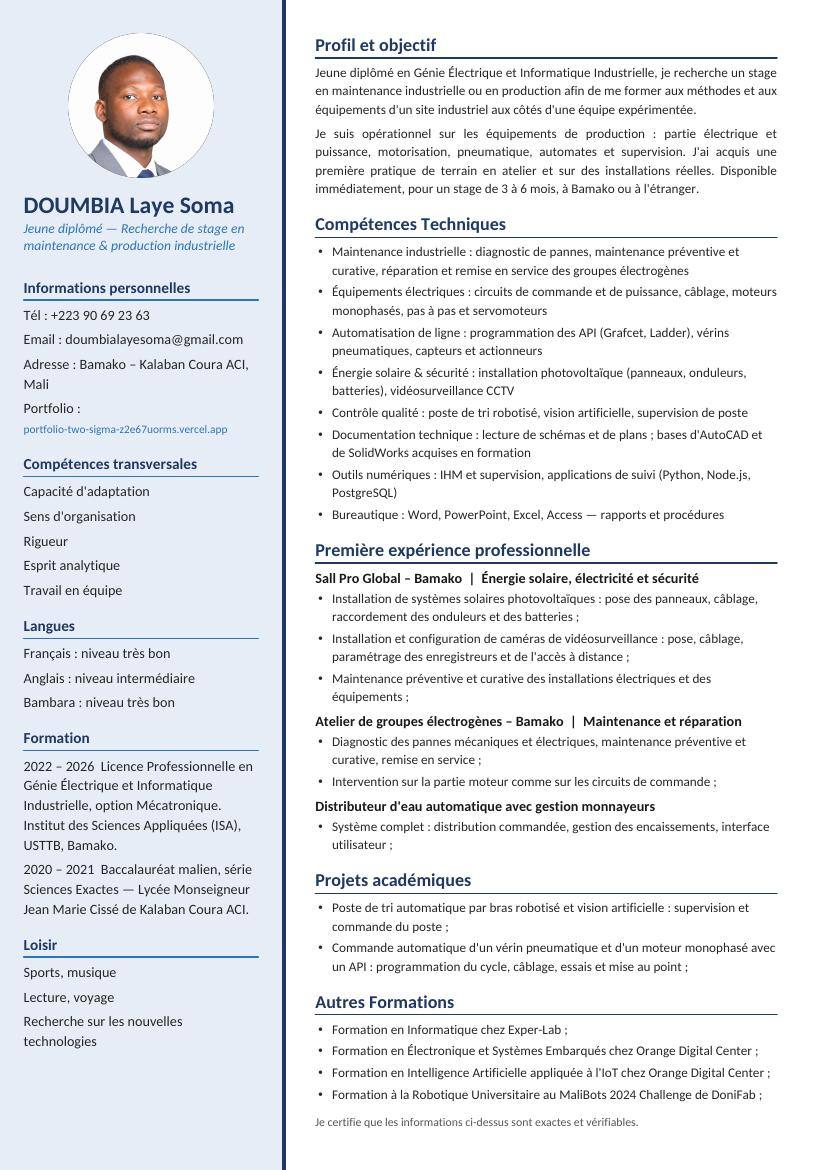
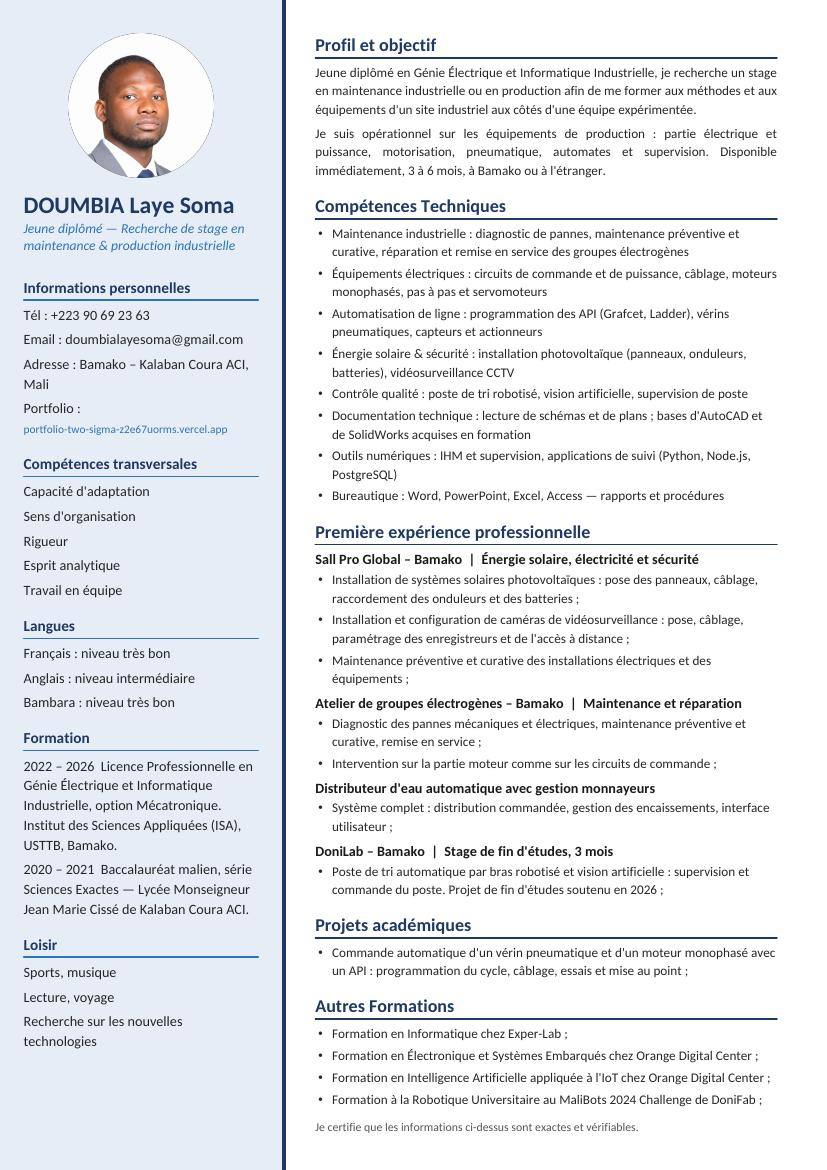
Ajoute le stage de fin d'études chez DoniLab
Le bras robotisé de tri par vision artificielle était le projet de fin
d'études, réalisé lors d'un stage de 3 mois chez DoniLab avant la
soutenance de 2026. Il devient une étape du parcours et une expérience
professionnelle, au lieu d'un simple projet académique.

Claude-Session: https://claude.ai/code/session_0125JC45MFHVnU7PNCXnKaww

Changed region(s): [[0.3628, 0.1231, 0.9371, 0.9846]]

diff --git a/index.html b/index.html
@@ -347,9 +347,18 @@ footer { padding-block: 28px 40px; border-top: 1px solid var(--line); color: var
             <ul data-i18n="s2List"></ul>
           </div>
         </li>
-        <li class="trans" aria-hidden="true"><div class="wire"></div><div class="cond" data-i18n="t2"></div></li>
+        <li class="trans" aria-hidden="true"><div class="wire"></div><div class="cond" data-i18n="tD"></div></li>
         <li class="step">
           <div class="box">3</div>
+          <div class="act">
+            <h3 data-i18n="sDTitle"></h3>
+            <p data-i18n="sDSub"></p>
+            <p data-i18n="sDDesc"></p>
+          </div>
+        </li>
+        <li class="trans" aria-hidden="true"><div class="wire"></div><div class="cond" data-i18n="t2"></div></li>
+        <li class="step">
+          <div class="box">4</div>
           <div class="act">
             <h3 data-i18n="sWTitle"></h3>
             <p data-i18n="sWSub"></p>
@@ -358,7 +367,7 @@ footer { padding-block: 28px 40px; border-top: 1px solid var(--line); color: var
         </li>
         <li class="trans" aria-hidden="true"><div class="wire"></div><div class="cond" data-i18n="tW"></div></li>
         <li class="step">
-          <div class="box">4</div>
+          <div class="box">5</div>
           <div class="act">
             <h3>Sall Pro Global, Bamako</h3>
             <p data-i18n="s3Sub"></p>
@@ -367,7 +376,7 @@ footer { padding-block: 28px 40px; border-top: 1px solid var(--line); color: var
         </li>
         <li class="trans" aria-hidden="true"><div class="wire"></div><div class="cond" data-i18n="tU"></div></li>
         <li class="step">
-          <div class="box">5</div>
+          <div class="box">6</div>
           <div class="act">
             <h3 data-i18n="sUTitle"></h3>
             <p data-i18n="sUSub"></p>
@@ -376,7 +385,7 @@ footer { padding-block: 28px 40px; border-top: 1px solid var(--line); color: var
         </li>
         <li class="trans" aria-hidden="true"><div class="wire"></div><div class="cond" data-i18n="t3"></div></li>
         <li class="step active">
-          <div class="box">6</div>
+          <div class="box">7</div>
           <div class="act">
             <h3 data-i18n="s4Title"></h3>
             <p id="next-text"></p>
@@ -484,6 +493,10 @@ const T = {
       s2Title: "Formations complémentaires",
       s2List: ["Informatique · Exper-Lab", "Électronique et systèmes embarqués · Orange Digital Center", "Intelligence artificielle appliquée à l'IoT · Orange Digital Center", "Robotique universitaire · MaliBots 2024 Challenge, DoniFab"],
       t2: "mise en pratique sur le terrain",
+      sDTitle: "Stage de fin d'études · DoniLab",
+      sDSub: "3 mois · Bamako",
+      sDDesc: "Bras robotisé de tri d'objets par vision artificielle&nbsp;: conception du poste, logiciel de supervision et de commande. Projet soutenu en 2026.",
+      tD: "projet de fin d'études",
       sWTitle: "Atelier de groupes électrogènes",
       sWSub: "Maintenance et réparation · Bamako",
       sWDesc: "Diagnostic des pannes mécaniques et électriques, maintenance préventive et curative, remise en service.",
@@ -582,7 +595,7 @@ const T = {
       liveshop: { kind: "UNITECH · en ligne", title: "LiveShop, SaaS de vente en live", text: "Plateforme pour les vendeurs d'Afrique francophone qui vendent en live sur TikTok, Facebook ou Instagram.", points: ["Gestion des commandes passées pendant le live", "Suivi du stock et des livraisons", "Le vendeur garde son audience sur les réseaux sociaux"], tags: ["SaaS", "E-commerce", "Vente en live"] },
       domotique: { kind: "UNITECH · en cours", title: "Système de domotique énergétique", text: "Suivi et gestion de la consommation d'énergie d'installations solaires, avec IA et facturation automatique.", points: ["Suivi de la consommation", "Facturation automatique", "Optimisation par IA", "Test terrain prévu en octobre 2027"], tags: ["Énergie solaire", "IoT", "IA", "Domotique"] },
       erp: { kind: "Projet personnel · en production", title: "Unitech-ERP, plateforme SaaS de gestion scolaire", text: "Plateforme web conçue et développée seul, de la base de données à la mise en ligne.", points: ["Inscriptions des élèves", "Facturation", "Saisie et suivi des notes"], tags: ["Node.js", "EJS", "PostgreSQL", "Render"] },
-      robot: { kind: "Projet académique", title: "Bras robotisé de tri par vision artificielle", text: "Poste de tri automatique : un bras robotisé classe les objets reconnus par une caméra.", points: ["Logiciel de supervision et de commande du poste", "Site web de supervision", "Tri automatique par vision artificielle"], tags: ["Robotique", "Vision", "Supervision", "Python"] },
+      robot: { kind: "Projet de fin d'études · Stage de 3 mois chez DoniLab", title: "Bras robotisé de tri par vision artificielle", text: "Poste de tri automatique : un bras robotisé classe les objets reconnus par une caméra. Projet de fin d'études réalisé chez DoniLab et soutenu en 2026.", points: ["Logiciel de supervision et de commande du poste", "Site web de supervision", "Tri automatique par vision artificielle"], tags: ["Robotique", "Vision", "Supervision", "Python"] },
       eau: { kind: "Réalisation", title: "Distributeur d'eau automatique avec monnayeur", text: "Système complet de distribution commandée, avec encaissement.", points: ["Logique de commande de la distribution", "Gestion des encaissements par monnayeur", "Interface utilisateur"], tags: ["Automatisme", "Électronique", "IHM"] },
       verin: { kind: "Projet académique", title: "Commande d'un vérin pneumatique et d'un moteur monophasé par API", text: "Automatisation d'un cycle sur automate programmable.", points: ["Programmation du cycle en Grafcet et Ladder", "Câblage commande et puissance", "Essais et mise au point"], tags: ["API", "Grafcet", "Ladder", "Pneumatique"] },
       moteur: { kind: "Projet académique", title: "Contrôle d'un moteur pas à pas et d'un servomoteur", text: "Système de commande en position et en vitesse de deux types de moteurs.", points: ["Circuit de commande", "Pilotage pas à pas et servomoteur"], tags: ["Électronique", "Motorisation", "Embarqué"] }
@@ -625,6 +638,10 @@ const T = {
       s2Title: "Additional training",
       s2List: ["Computer science · Exper-Lab", "Electronics and embedded systems · Orange Digital Center", "Artificial intelligence for IoT · Orange Digital Center", "University robotics · MaliBots 2024 Challenge, DoniFab"],
       t2: "hands-on field work",
+      sDTitle: "Final-year internship · DoniLab",
+      sDSub: "3 months · Bamako",
+      sDDesc: "Vision-guided robotic sorting arm: station design, supervision and control software. Defended in 2026.",
+      tD: "final-year project",
       sWTitle: "Generator repair workshop",
       sWSub: "Maintenance and repair · Bamako",
       sWDesc: "Diagnosis of mechanical and electrical faults, preventive and corrective maintenance, return to service.",
@@ -723,7 +740,7 @@ const T = {
       liveshop: { kind: "UNITECH · live", title: "LiveShop, live selling SaaS", text: "Platform for French-speaking African sellers who sell live on TikTok, Facebook or Instagram.", points: ["Managing orders placed during the live", "Stock and delivery tracking", "Sellers keep their audience on social media"], tags: ["SaaS", "E-commerce", "Live selling"] },
       domotique: { kind: "UNITECH · in progress", title: "Smart energy home automation system", text: "Monitoring and managing energy use of solar installations, with AI and automatic billing.", points: ["Consumption monitoring", "Automatic billing", "AI-based optimization", "Field test planned for October 2027"], tags: ["Solar energy", "IoT", "AI", "Home automation"] },
       erp: { kind: "Personal project · live", title: "Unitech-ERP, school management SaaS", text: "Web platform designed and built single-handedly, from database to deployment.", points: ["Student enrollment", "Billing", "Grade entry and tracking"], tags: ["Node.js", "EJS", "PostgreSQL", "Render"] },
-      robot: { kind: "Academic project", title: "Vision-guided robotic sorting arm", text: "Automated sorting station: a robotic arm sorts objects recognized by a camera.", points: ["Station supervision and control software", "Supervision website", "Automated sorting with computer vision"], tags: ["Robotics", "Vision", "Supervision", "Python"] },
+      robot: { kind: "Final-year project · 3-month internship at DoniLab", title: "Vision-guided robotic sorting arm", text: "Automated sorting station: a robotic arm sorts objects recognized by a camera. Final-year project carried out at DoniLab and defended in 2026.", points: ["Station supervision and control software", "Supervision website", "Automated sorting with computer vision"], tags: ["Robotics", "Vision", "Supervision", "Python"] },
       eau: { kind: "Build", title: "Coin-operated automatic water dispenser", text: "Complete controlled dispensing system with payment handling.", points: ["Dispensing control logic", "Coin acceptor payment handling", "User interface"], tags: ["Automation", "Electronics", "HMI"] },
       verin: { kind: "Academic project", title: "PLC control of a pneumatic cylinder and a single-phase motor", text: "Automating a cycle on a programmable logic controller.", points: ["Cycle programmed in GRAFCET and Ladder", "Control and power wiring", "Testing and commissioning"], tags: ["PLC", "GRAFCET", "Ladder", "Pneumatics"] },
       moteur: { kind: "Academic project", title: "Stepper motor and servo motor control", text: "Position and speed control system for two motor types.", points: ["Control circuit", "Stepper and servo drive"], tags: ["Electronics", "Motor control", "Embedded"] }
@@ -766,6 +783,10 @@ const T = {
       s2Title: "Formación complementaria",
       s2List: ["Informática · Exper-Lab", "Electrónica y sistemas embebidos · Orange Digital Center", "Inteligencia artificial aplicada al IoT · Orange Digital Center", "Robótica universitaria · MaliBots 2024 Challenge, DoniFab"],
       t2: "práctica sobre el terreno",
+      sDTitle: "Prácticas de fin de carrera · DoniLab",
+      sDSub: "3 meses · Bamako",
+      sDDesc: "Brazo robótico de clasificación por visión artificial: diseño del puesto, software de supervisión y control. Defendido en 2026.",
+      tD: "proyecto de fin de carrera",
       sWTitle: "Taller de grupos electrógenos",
       sWSub: "Mantenimiento y reparación · Bamako",
       sWDesc: "Diagnóstico de averías mecánicas y eléctricas, mantenimiento preventivo y correctivo, puesta en servicio.",
@@ -864,7 +885,7 @@ const T = {
       liveshop: { kind: "UNITECH · en línea", title: "LiveShop, SaaS de venta en directo", text: "Plataforma para vendedores de África francófona que venden en directo en TikTok, Facebook o Instagram.", points: ["Gestión de los pedidos hechos durante el directo", "Seguimiento del stock y de las entregas", "El vendedor conserva su audiencia en las redes sociales"], tags: ["SaaS", "E-commerce", "Venta en directo"] },
       domotique: { kind: "UNITECH · en curso", title: "Sistema de domótica energética", text: "Seguimiento y gestión del consumo energético de instalaciones solares, con IA y facturación automática.", points: ["Seguimiento del consumo", "Facturación automática", "Optimización con IA", "Prueba de campo prevista en octubre de 2027"], tags: ["Energía solar", "IoT", "IA", "Domótica"] },
       erp: { kind: "Proyecto personal · en producción", title: "Unitech-ERP, plataforma SaaS de gestión escolar", text: "Plataforma web diseñada y desarrollada en solitario, de la base de datos a la puesta en línea.", points: ["Matrícula de alumnos", "Facturación", "Registro y seguimiento de notas"], tags: ["Node.js", "EJS", "PostgreSQL", "Render"] },
-      robot: { kind: "Proyecto académico", title: "Brazo robótico de clasificación por visión artificial", text: "Puesto de clasificación automática: un brazo robótico ordena los objetos reconocidos por una cámara.", points: ["Software de supervisión y control del puesto", "Sitio web de supervisión", "Clasificación automática por visión artificial"], tags: ["Robótica", "Visión", "Supervisión", "Python"] },
+      robot: { kind: "Proyecto de fin de carrera · Prácticas de 3 meses en DoniLab", title: "Brazo robótico de clasificación por visión artificial", text: "Puesto de clasificación automática: un brazo robótico ordena los objetos reconocidos por una cámara. Proyecto de fin de carrera realizado en DoniLab y defendido en 2026.", points: ["Software de supervisión y control del puesto", "Sitio web de supervisión", "Clasificación automática por visión artificial"], tags: ["Robótica", "Visión", "Supervisión", "Python"] },
       eau: { kind: "Realización", title: "Dispensador automático de agua con monedero", text: "Sistema completo de dispensación controlada, con cobro.", points: ["Lógica de control de la dispensación", "Gestión del cobro con monedero", "Interfaz de usuario"], tags: ["Automatización", "Electrónica", "HMI"] },
       verin: { kind: "Proyecto académico", title: "Control de un cilindro neumático y un motor monofásico con PLC", text: "Automatización de un ciclo en un autómata programable.", points: ["Programación del ciclo en GRAFCET y Ladder", "Cableado de mando y de potencia", "Pruebas y puesta a punto"], tags: ["PLC", "GRAFCET", "Ladder", "Neumática"] },
       moteur: { kind: "Proyecto académico", title: "Control de un motor paso a paso y un servomotor", text: "Sistema de control en posición y velocidad de dos tipos de motores.", points: ["Circuito de mando", "Accionamiento paso a paso y servomotor"], tags: ["Electrónica", "Motorización", "Embebido"] }
